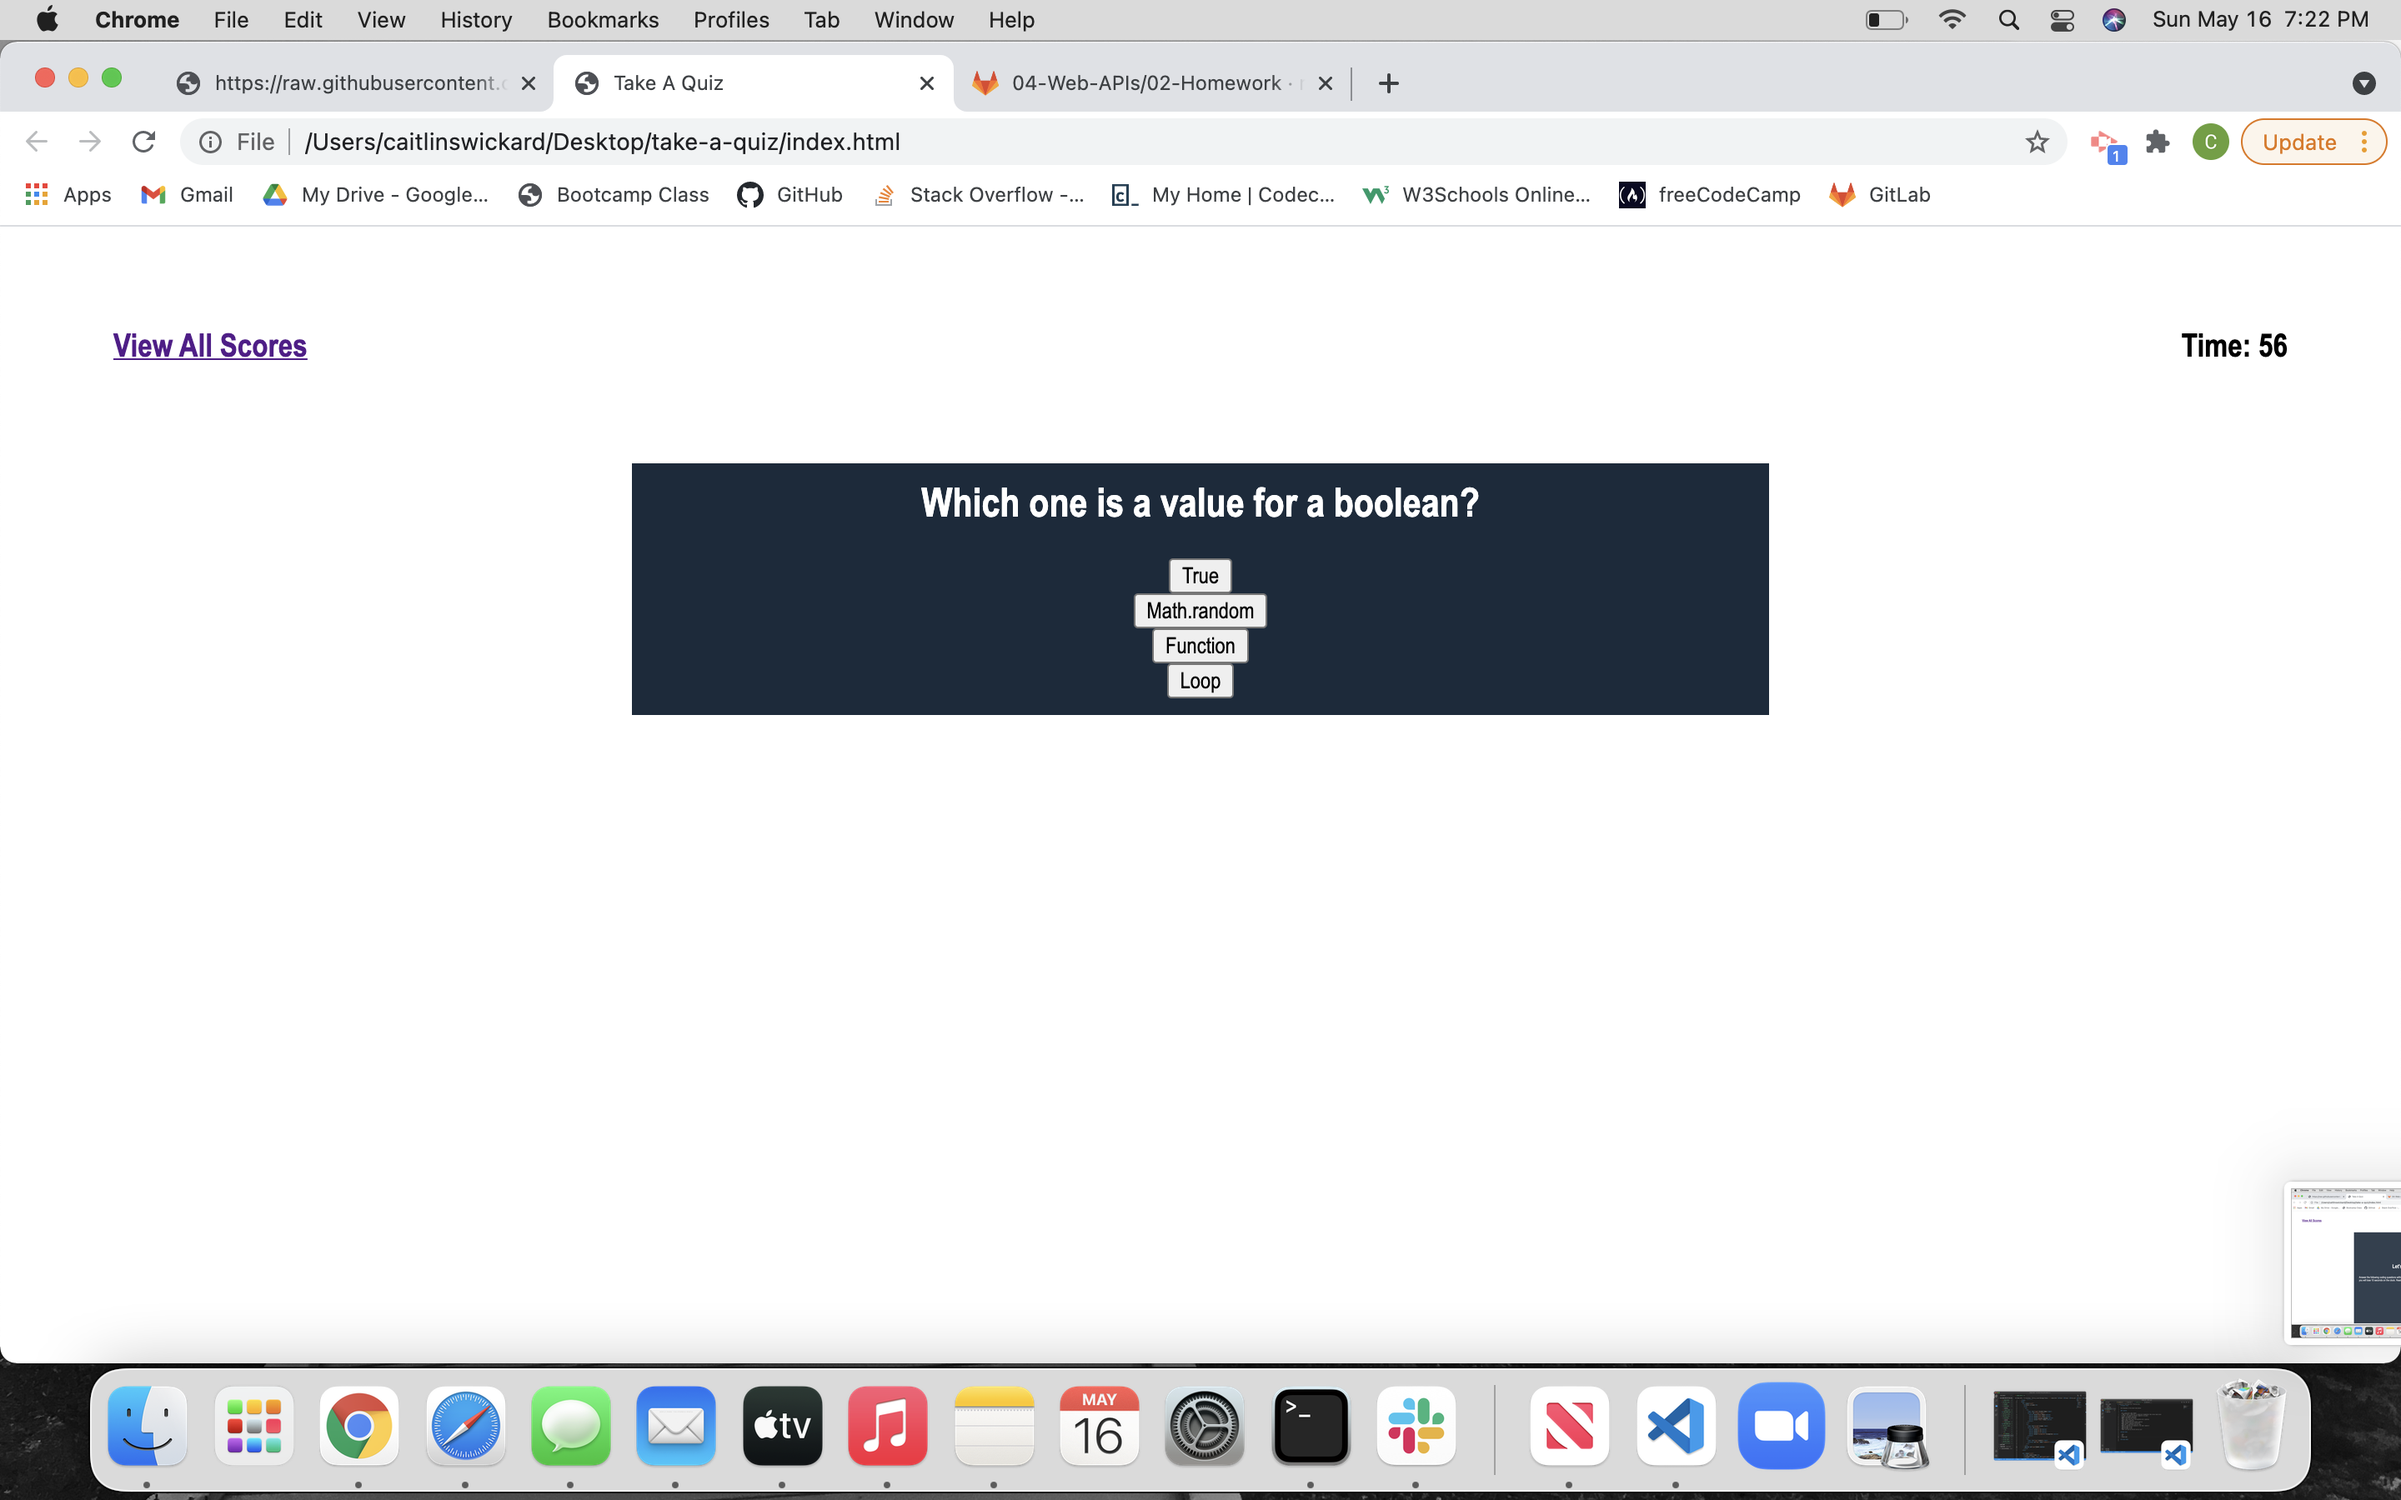
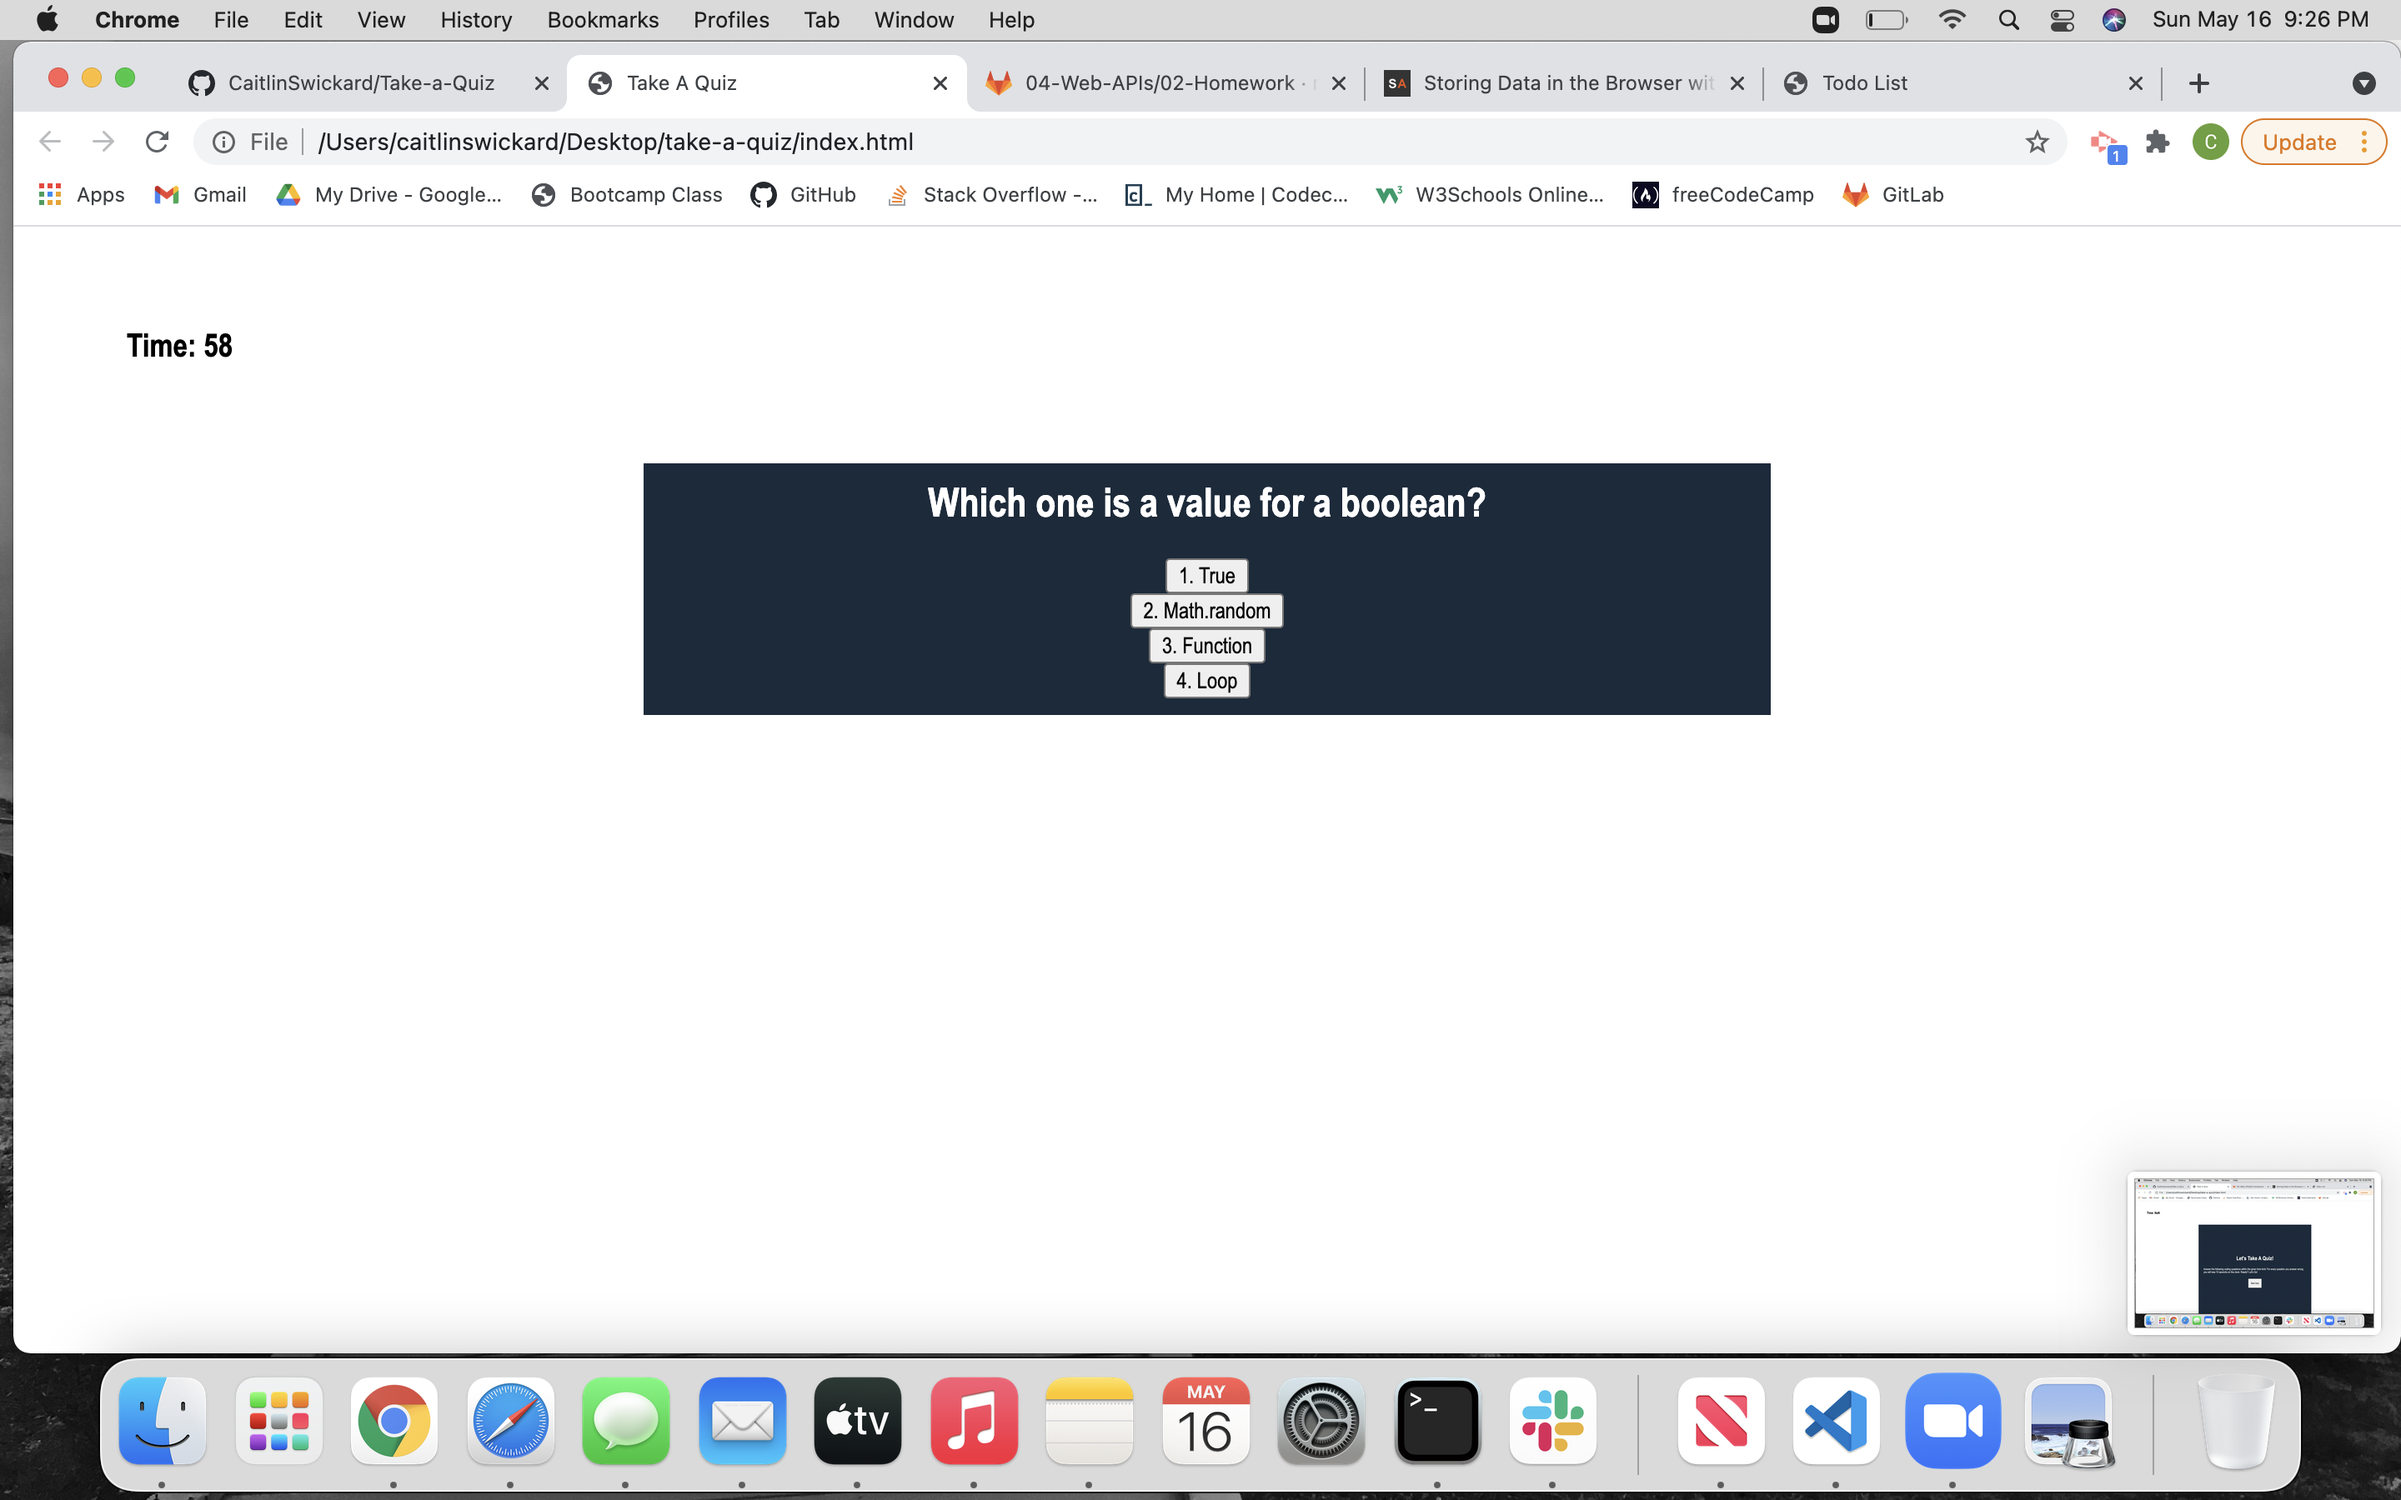
update to readme

diff --git a/script.js b/script.js
@@ -23,40 +23,40 @@ const questions = [
   {
     question: 'Which one is a value for a boolean?',
     choices: [
-      'True',
-      'Math.random',
-      'Function',
-      'Loop',
+      '1. True',
+      '2. Math.random',
+      '3. Function',
+      '4. Loop',
     ],
     correct: 'True'
   },
   {
     question: 'How do we start flex box in css?',
     choices: [
-      'align-self: flex-start',
-      'display: flex',
-      'flex-direction: row',
-      'flex-wrap: wrap',
+      '1. align-self: flex-start',
+      '2. display: flex',
+      '3. flex-direction: row',
+      '4. flex-wrap: wrap',
     ],
     correct: 'display: flex'
   },
   {
     question: 'How do we include jQuery in our webpage?',
     choices: [
-      'With a NDC',
-      'With a function',
-      'With a CDN',
-      'With a method',
+      '1. With a NDC',
+      '2. With a function',
+      '3. With a CDN',
+      '4. With a method',
     ],
     correct: 'With a CDN',
   },
   {
     question: 'What does DOM stand for?',
     choices: [
-      'Document Object Method',
-      'Document Object Menu',
-      'Document Object Motherboard',
-      'Document Object Model',
+      '1. Document Object Method',
+      '2. Document Object Menu',
+      '3. Document Object Motherboard',
+      '4. Document Object Model',
     ],
     correct: 'Document Object Model',
   }
@@ -86,11 +86,9 @@ startButton.addEventListener('click', startQuiz);
 
 // function to start the quiz and timer 
 function startQuiz() {
-
   secondsLeft = 60;
   // hides the instruction screen to allow questions to display
   instructionContainerElement.style.display = "none";
-
   showQuestions();
 }
 
@@ -165,7 +163,7 @@ function quizEnd() {
 // variables fo HTML elements for high score form
 const submitEl = document.querySelector("#submit");
 const initialsInput = document.querySelector("#initials");
-const scoreListEl = document.querySelector("#score-list");
+const scoreListEl = document.querySelector("#scores-list");
 const scoreContainerEl = document.getElementById("score-container");
 
 
@@ -174,47 +172,56 @@ const scoreContainerEl = document.getElementById("score-container");
 submitEl.addEventListener("click", function (event) {
   // Prevent default action of refresh on submit
   event.preventDefault();
+  init();
 });
+
+
+
+// set empty array for initials 
+let initials = [];
+
+function setScores() {
+
+  // setting html to empty string 
+  scoreListEl.innerHTML = "";
+  // looping through initials
+  for (var i = 0; i < initials.length; i++) {
+    // creating a variable for the current iteration
+    var initial = initials[i].initialsInput;
+    // creating 'h3' element
+    var h3 = document.createElement("h3");
+    // changing the text of the 'h3' created to the current text of the loop iteration
+    h3.textContent = initial;
+    // appending the 'h3' as a child to the html element
+    scoreListEl.appendChild(h3);
+  }
+}
 
 
 
 function saveHighScore() {
 
   // save form data as an object
-  const scores = {
+  const score = {
     initialsInput: initialsInput.value,
     secondsLeft: secondsLeft.value
   };
+  initials.push(score);
   // Use .setItem() to store object in storage and JSON.stringify to convert it as a string - setting the whole array as 'scores'
-  localStorage.setItem("scores", JSON.stringify(scores));
+  localStorage.setItem("scores", JSON.stringify(initials));
 }
 
 
+function init() {
 
-function setScores() {
-
-  // array for value from local storage or initialize an empty array
-  var highScores = JSON.parse(localStorage.getItem("scores") || [])
-  // Check if data is returned, if not exit out of the function
+  // getting the stored 'initials' saved in local storage, turning it from a string to an array and saving it to variable
+  var highScores = JSON.parse(localStorage.getItem("scores"))
+  // if we have initials in local storage, set the 'initials' variable to what we received from local storage
   if (highScores !== null) {
-    const response = initialsInput.value + " " + secondsLeft.value;
-    scoreListEl.textContent = response;
-    //this pushes that string into the array
-    highScores.push(response);
-  } else {
-    return;
+    initials = highScores;
   }
-
+  // calling function from above
   saveHighScore();
   setScores();
 }
-
-
-
-
-
-
-
-
-
 

diff --git a/index.html b/index.html
@@ -13,8 +13,7 @@
 
 <body>
   <header class="header">
-    <!-- view previous scores -->
-    <div class="scores"><a href="">View All Scores</a>
+
     </div>
     <!-- timer -->
     <div class="timer"></div>

diff --git a/style.css b/style.css
@@ -14,8 +14,8 @@
   flex-direction: row;
   justify-content: space-between;
   margin: 60px;
-  font-size: larger;
   font-weight: bold;
+  font-size: larger;
 
 }
 

diff --git a/readme.md b/readme.md
@@ -1,6 +1,6 @@
 # Project: Take A Quiz
 
-This project allows for a student to take a quiz on coding fundamental. This quiz is timed with 60 second to complete. The timer and the quiz start when the user clicks the button. The user can go through the questions one by one. If they answer a question wrong they will lose 10 second on the clock. When the quiz is over, the user is prompted to input their initials to be placed with their score, which is the time left on the clock.
+This project allows for a student to take a quiz on coding fundamental. This quiz is timed with 60 second to complete. The timer and the quiz start when the user clicks the button. The user can go through the questions one by one. If they answer a question wrong they will lose 10 second on the clock. When the quiz is over, the user is prompted to input their initials to be placed with their score, which is the time left on the clock. Once submitted you can see the previous players of the quiz.
 
 ### Criteria
 
@@ -27,6 +27,6 @@ This project allows for a student to take a quiz on coding fundamental. This qui
 
 ## Screen Shots
 
-![Start Quiz screen](images/Quizstart.png)
+![Start Quiz screen](images/startQuiz.png)
 ![Random question in quiz](images/Question.png)
-![End quiz screen](images/Quizend.png)
+![End quiz screen](images/endQuiz.png)
